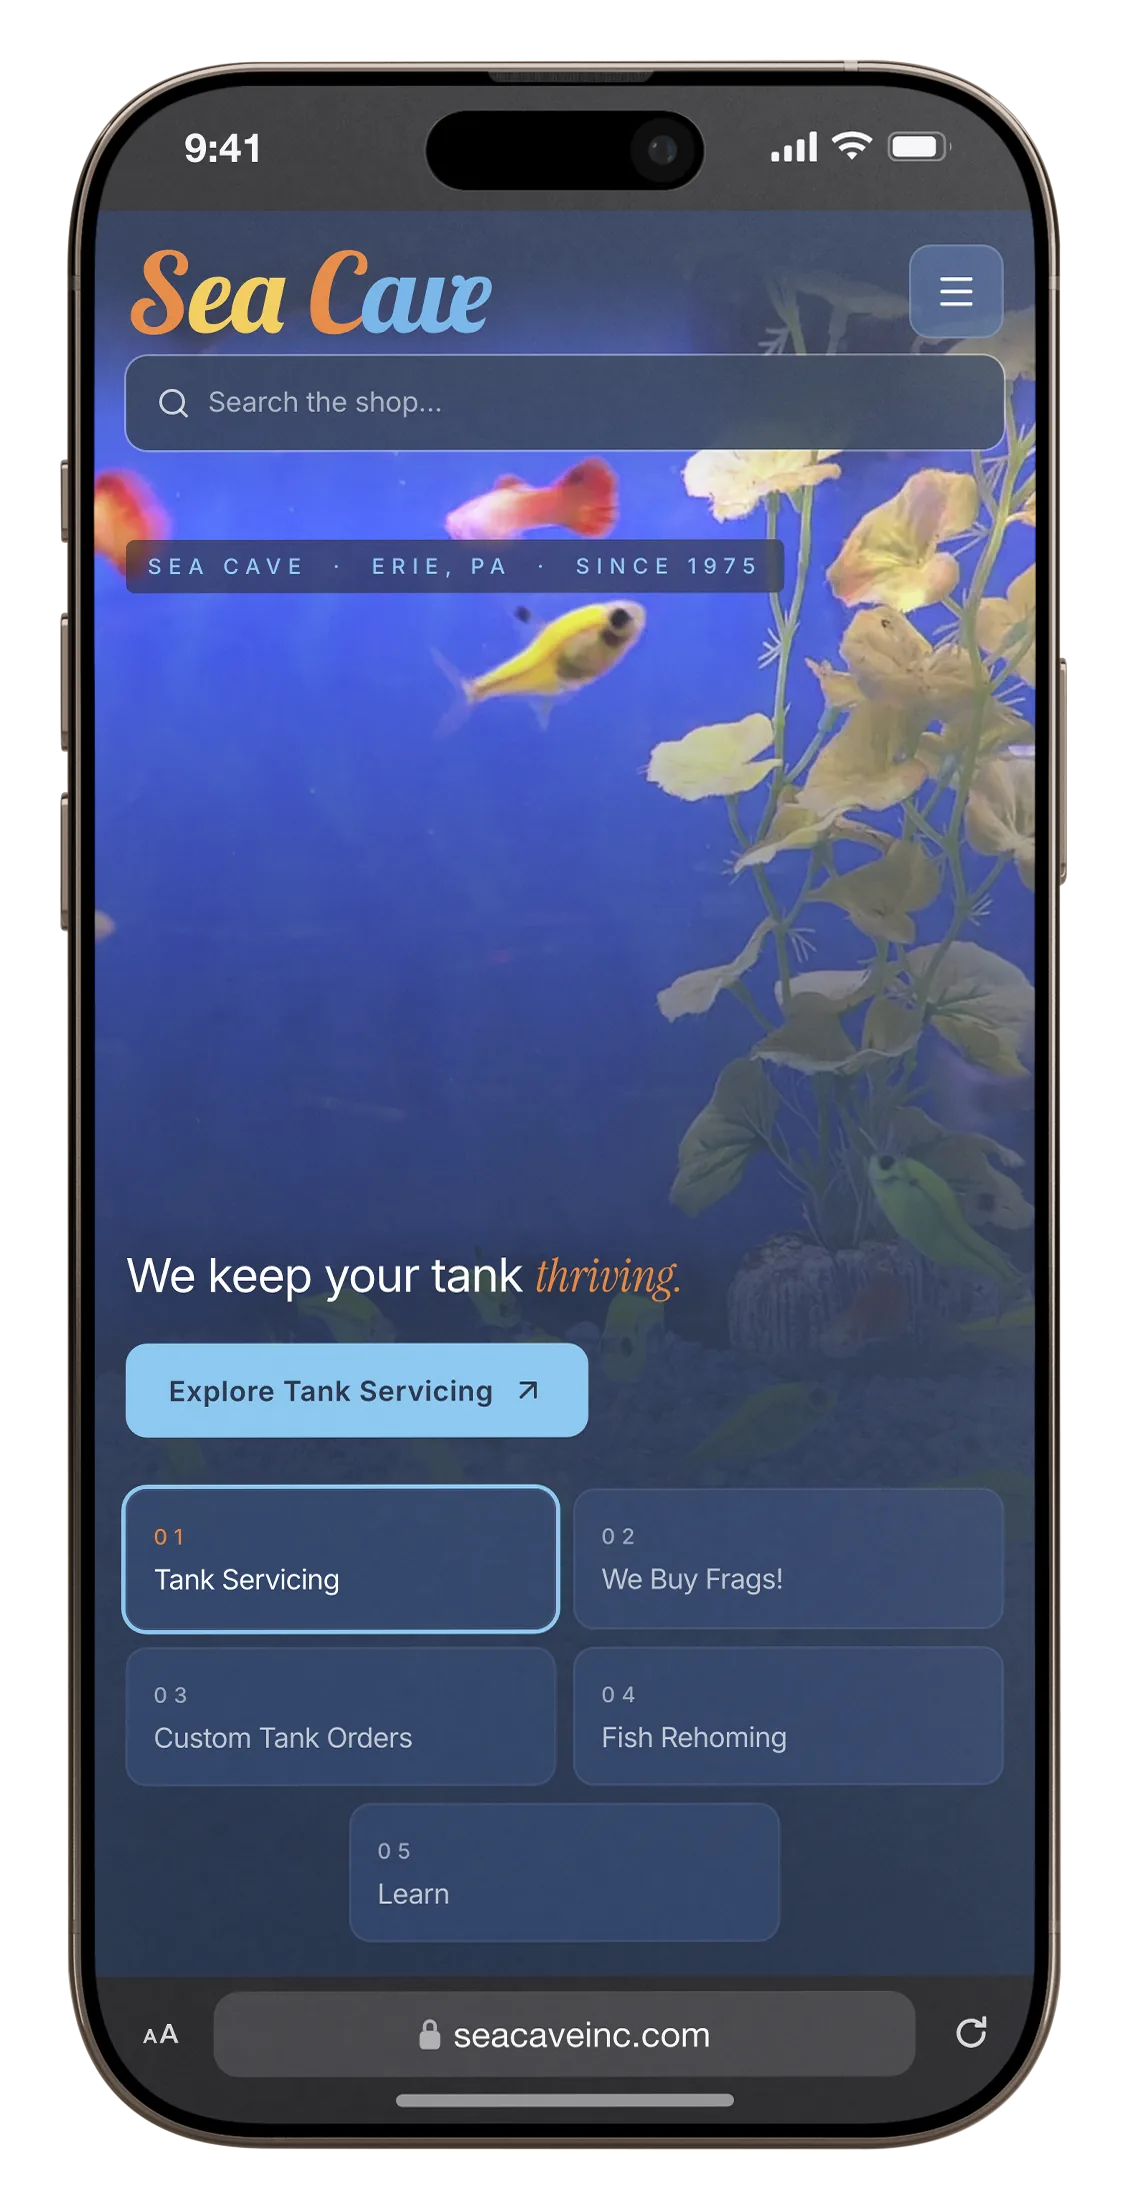
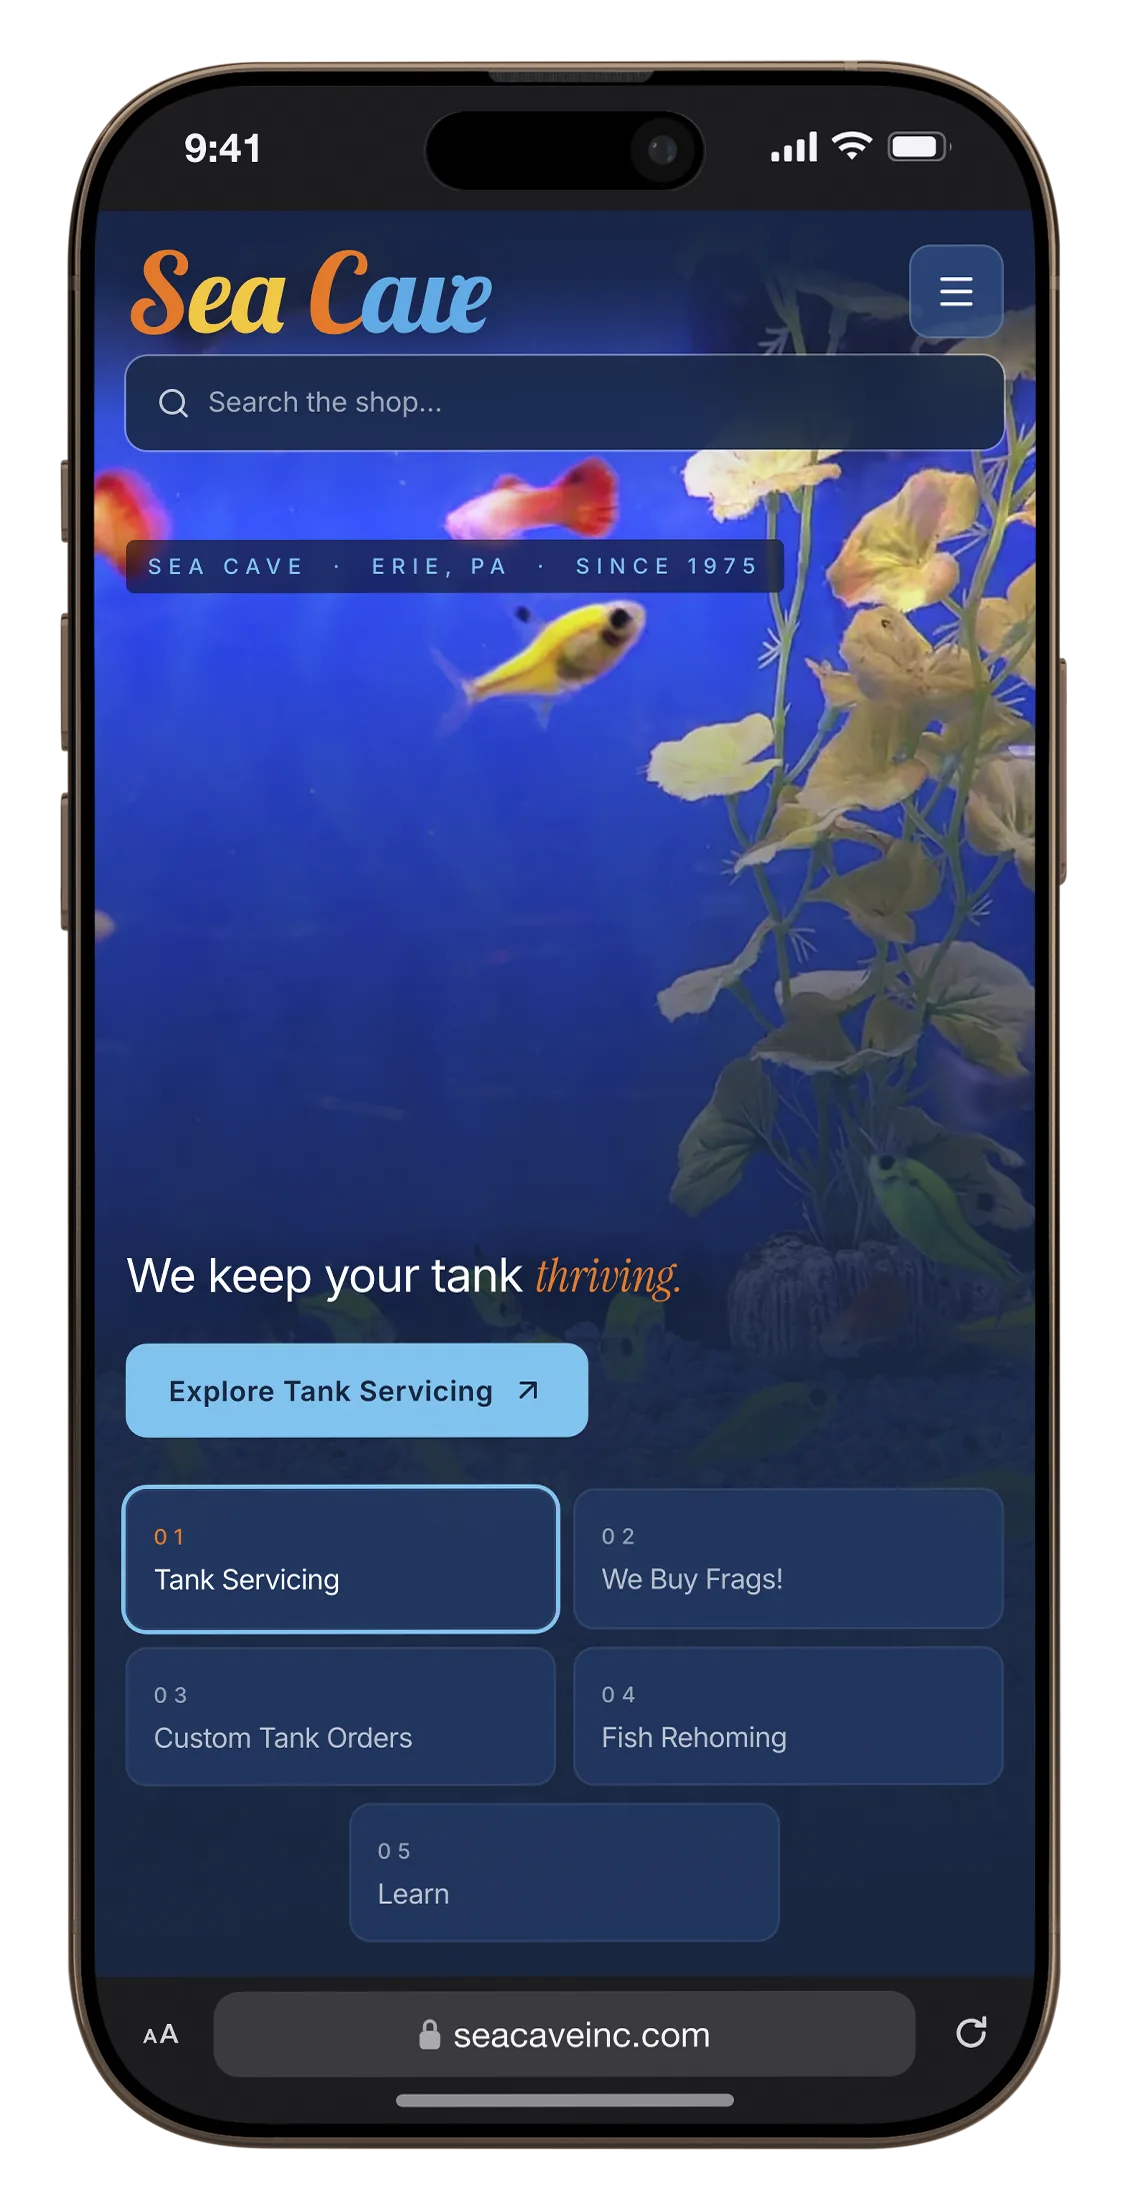
fix: Main Effect was the haze, not the two Shine layers
Still cloudy after the first pass. Four layers cross the screen in this kit and
that pass only found three — `Shine 1`, `Shine 2` and the Effect clipped to the
smart object. `Main Effect` is 1007x2090, the exact device rectangle, which
made it read as body rather than glass; it is a full-device lighting pass laid
over everything including the screen.

Rendered four ways side by side to decide rather than guessing: with Main
Effect off, a white button in the capture comes back white instead of grey, and
the dark half of the photo stops being lifted.

`Frame Shine` is the same size and stays. It is the bezel's edge highlight, so
dropping it flattens the aluminium and buys no contrast. `Camera Effect` (the
Dynamic Island) and `Speaker` stay for the same reason. The device body sits
BELOW the smart object, so none of these three is what makes it a phone.

The job file also takes an extra list of layer names to hide now, which is what
made the four-way comparison one batch instead of four edits.

diff --git a/scripts/ps/one-screen-job.jsx b/scripts/ps/one-screen-job.jsx
@@ -10,7 +10,7 @@
  * Job file, one value per line:
  *   psd | art png | out png | SO indices (comma separated, document order)
  *   | solo group index or -1 | trim margin px or -1 | keep background 1/0
- *   | keep screen gloss 1/0
+ *   | keep screen gloss 1/0 | extra layer names to hide, comma separated
  *
  * Smart objects are addressed by INDEX rather than by name: the kit has three
  * groups all called "iPhone Mockup", each containing a layer called
@@ -20,7 +20,7 @@ var jf = new File("/Users/tomsesler/Projects/portfolio/.ps-run/screen-job.txt");
 jf.open("r");
 var psdPath = jf.readln(), artPath = jf.readln(), outPath = jf.readln(),
     idxRaw = jf.readln(), soloRaw = jf.readln(), marginRaw = jf.readln(), bgRaw = jf.readln(),
-    glossRaw = jf.readln();
+    glossRaw = jf.readln(), hideRaw = jf.readln();
 jf.close();
 
 var wanted = idxRaw.split(",");
@@ -28,6 +28,7 @@ var solo = parseInt(soloRaw, 10);
 var margin = parseInt(marginRaw, 10);
 var keepBg = (bgRaw !== "0");
 var keepGloss = (glossRaw !== "0");
+var extraHide = (hideRaw && hideRaw !== "-") ? hideRaw.split(",") : [];
 
 function collectSOs(layers, out) {
   for (var i = 0; i < layers.length; i++) {
@@ -132,16 +133,32 @@ if (!keepBg) {
    reflection, but you can't really tell... it just looks like cloudy, like not
    good contrast."
 
-   So the two layers that cross the SCREEN come off and everything that
-   describes the DEVICE stays: `Frame Shine` and `Main Effect` are the bezel
-   and body, `Camera Effect` is the Dynamic Island, `Speaker` is the earpiece.
-   Losing those would leave a flat cutout rather than a photograph. */
+   Four layers cross the screen, and the first pass only found three. `Shine 1`
+   and `Shine 2` are the obvious diagonal highlights; the Effect clipped to the
+   smart object is a second wash over the UI. Killing those three left it still
+   milky, because `Main Effect` — 1007x2090, the exact device rectangle — is a
+   full-device lighting pass laid over everything including the glass. Rendered
+   four ways side by side, it is the one carrying the haze: with it off, a white
+   button in the capture comes back white instead of grey.
+
+   `Frame Shine` stays. It is the same size and reads like a sibling, but it is
+   the bezel's edge highlight — dropping it flattens the aluminium and costs
+   realism without buying any contrast. Also staying: `Camera Effect`, which is
+   the Dynamic Island, and `Speaker`, the earpiece. The device body itself sits
+   BELOW the smart object, so none of this is what makes the phone a phone. */
 if (!keepGloss) {
   var glare = [];
   findByName(doc.layers, "Shine 1", glare);
   findByName(doc.layers, "Shine 2", glare);
+  findByName(doc.layers, "Main Effect", glare);
   findInGroup(doc.layers, "Smart Object", "Effect", glare);
   for (var g2 = 0; g2 < glare.length; g2++) glare[g2].visible = false;
+}
+for (var e = 0; e < extraHide.length; e++) {
+  var name = extraHide[e].replace(/^\s+|\s+$/g, "");
+  if (!name.length) continue;
+  var more = []; findByName(doc.layers, name, more);
+  for (var m2 = 0; m2 < more.length; m2++) more[m2].visible = false;
 }
 
 var dup = doc.duplicate("export-tmp", true);
